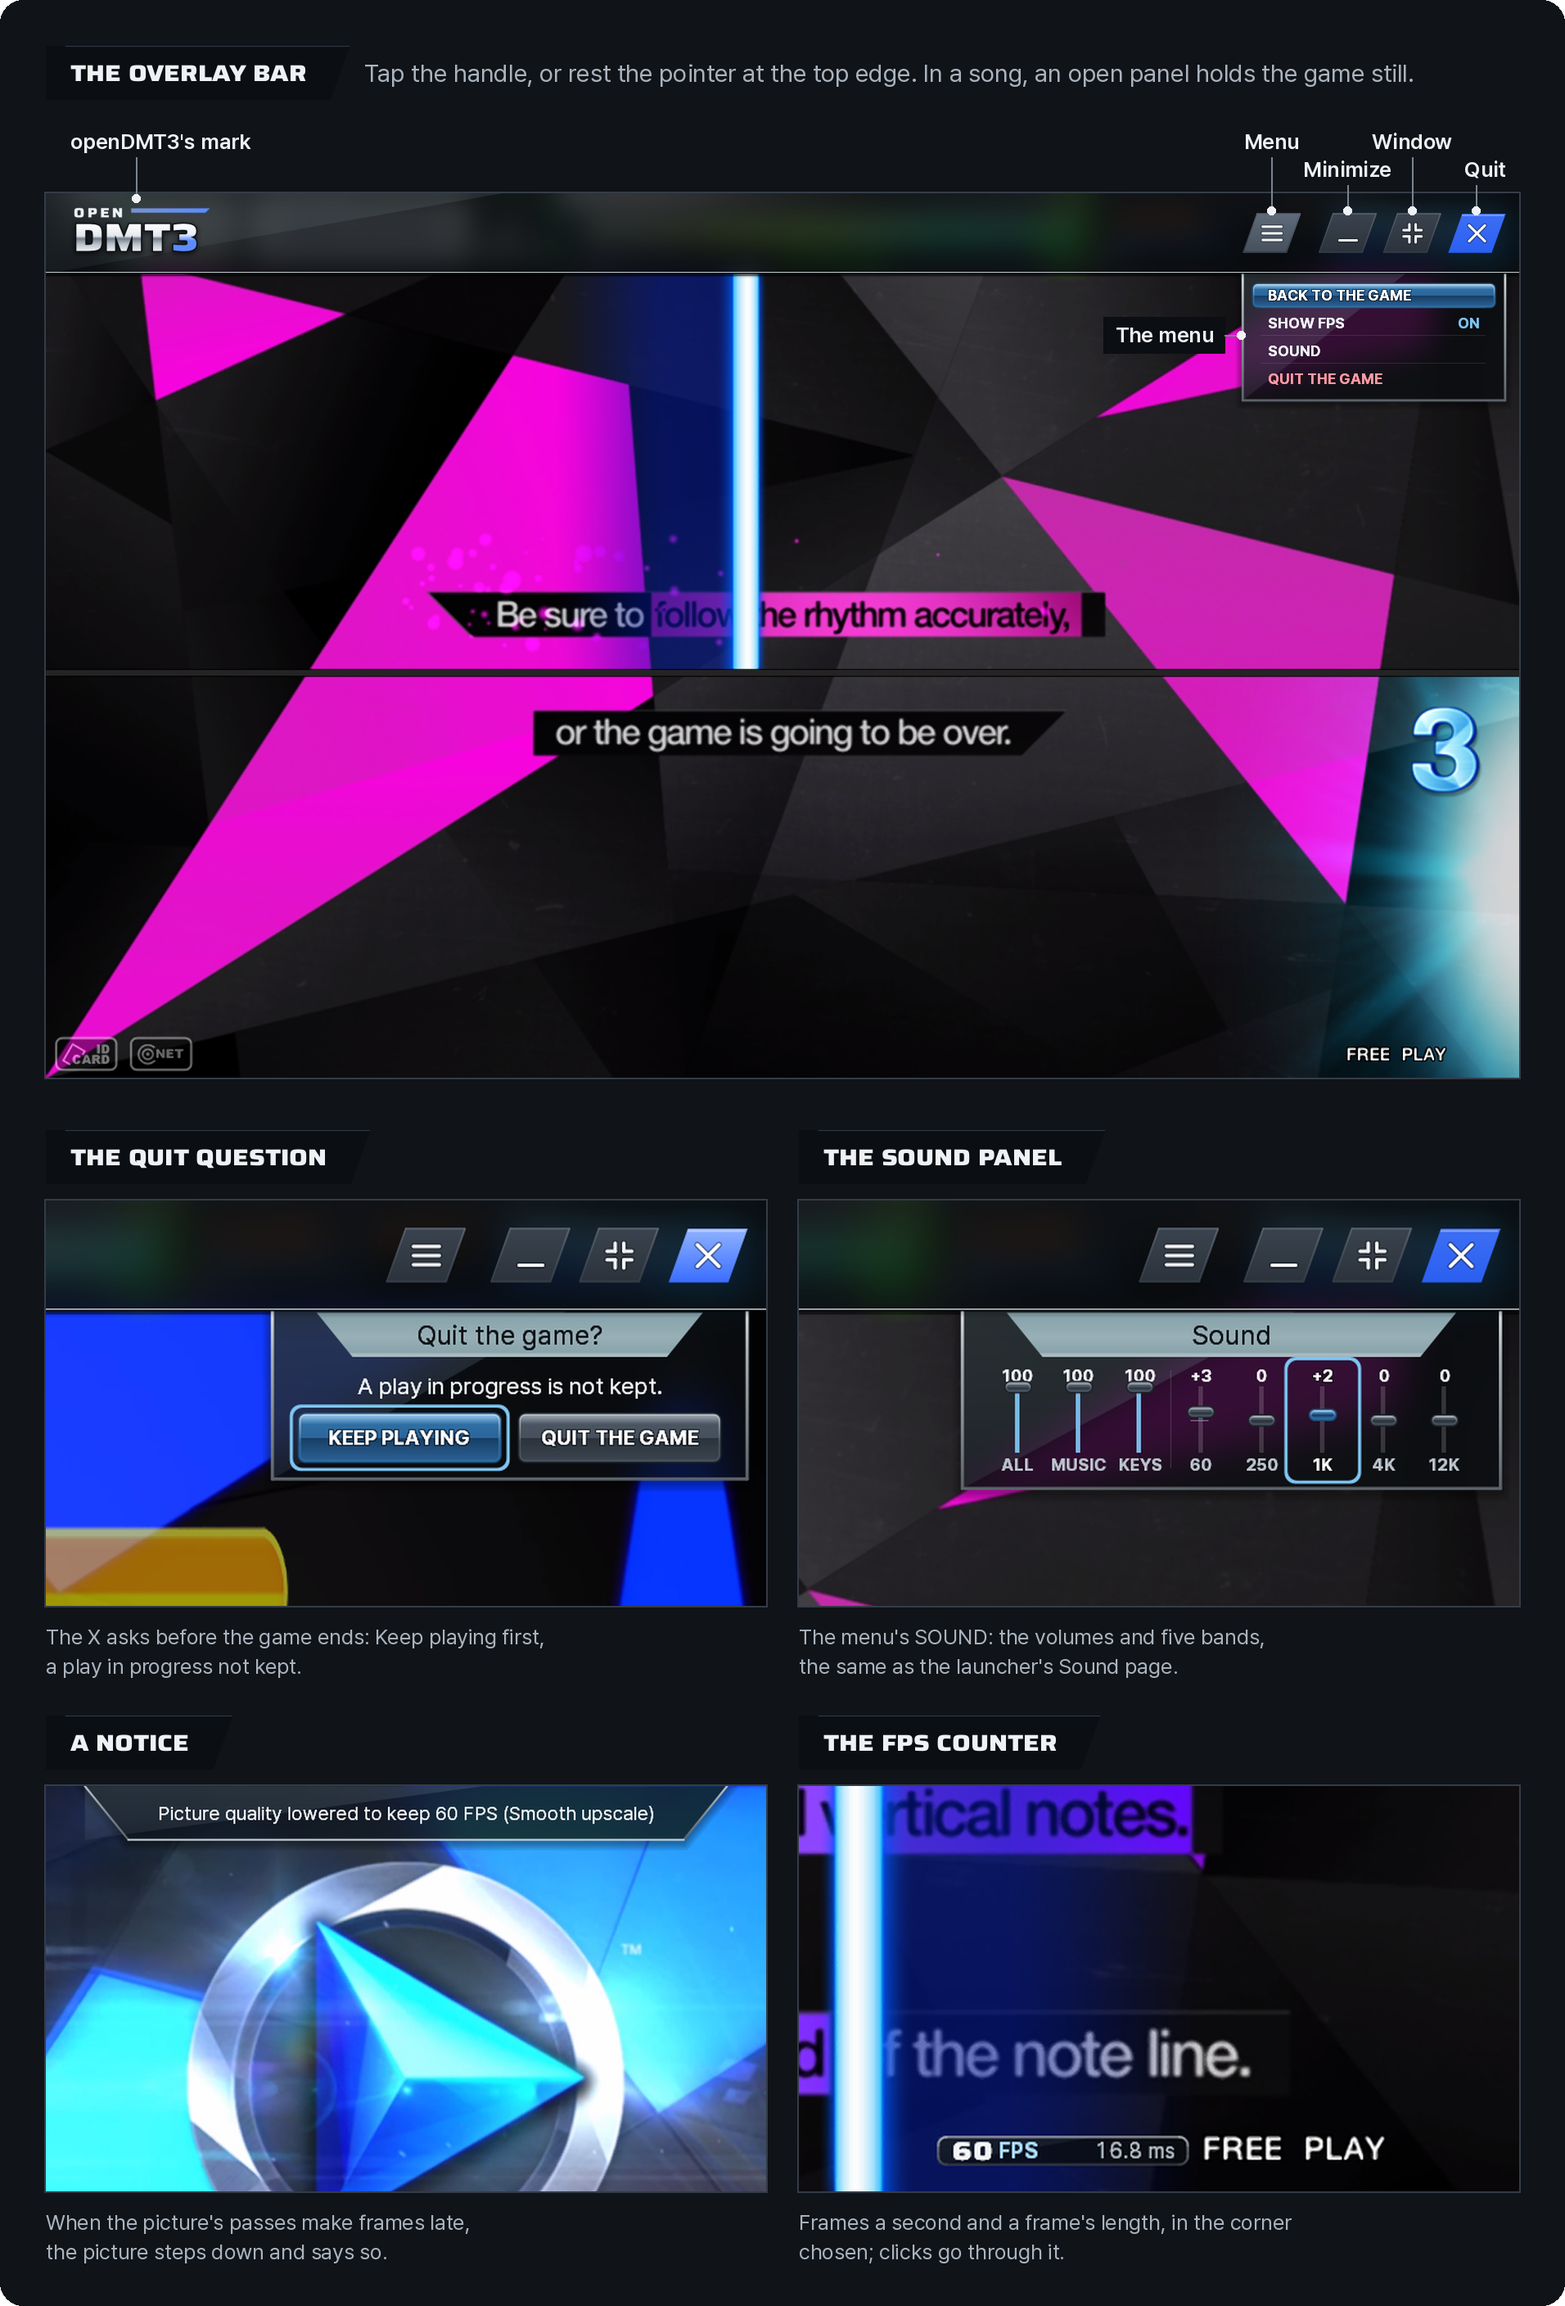
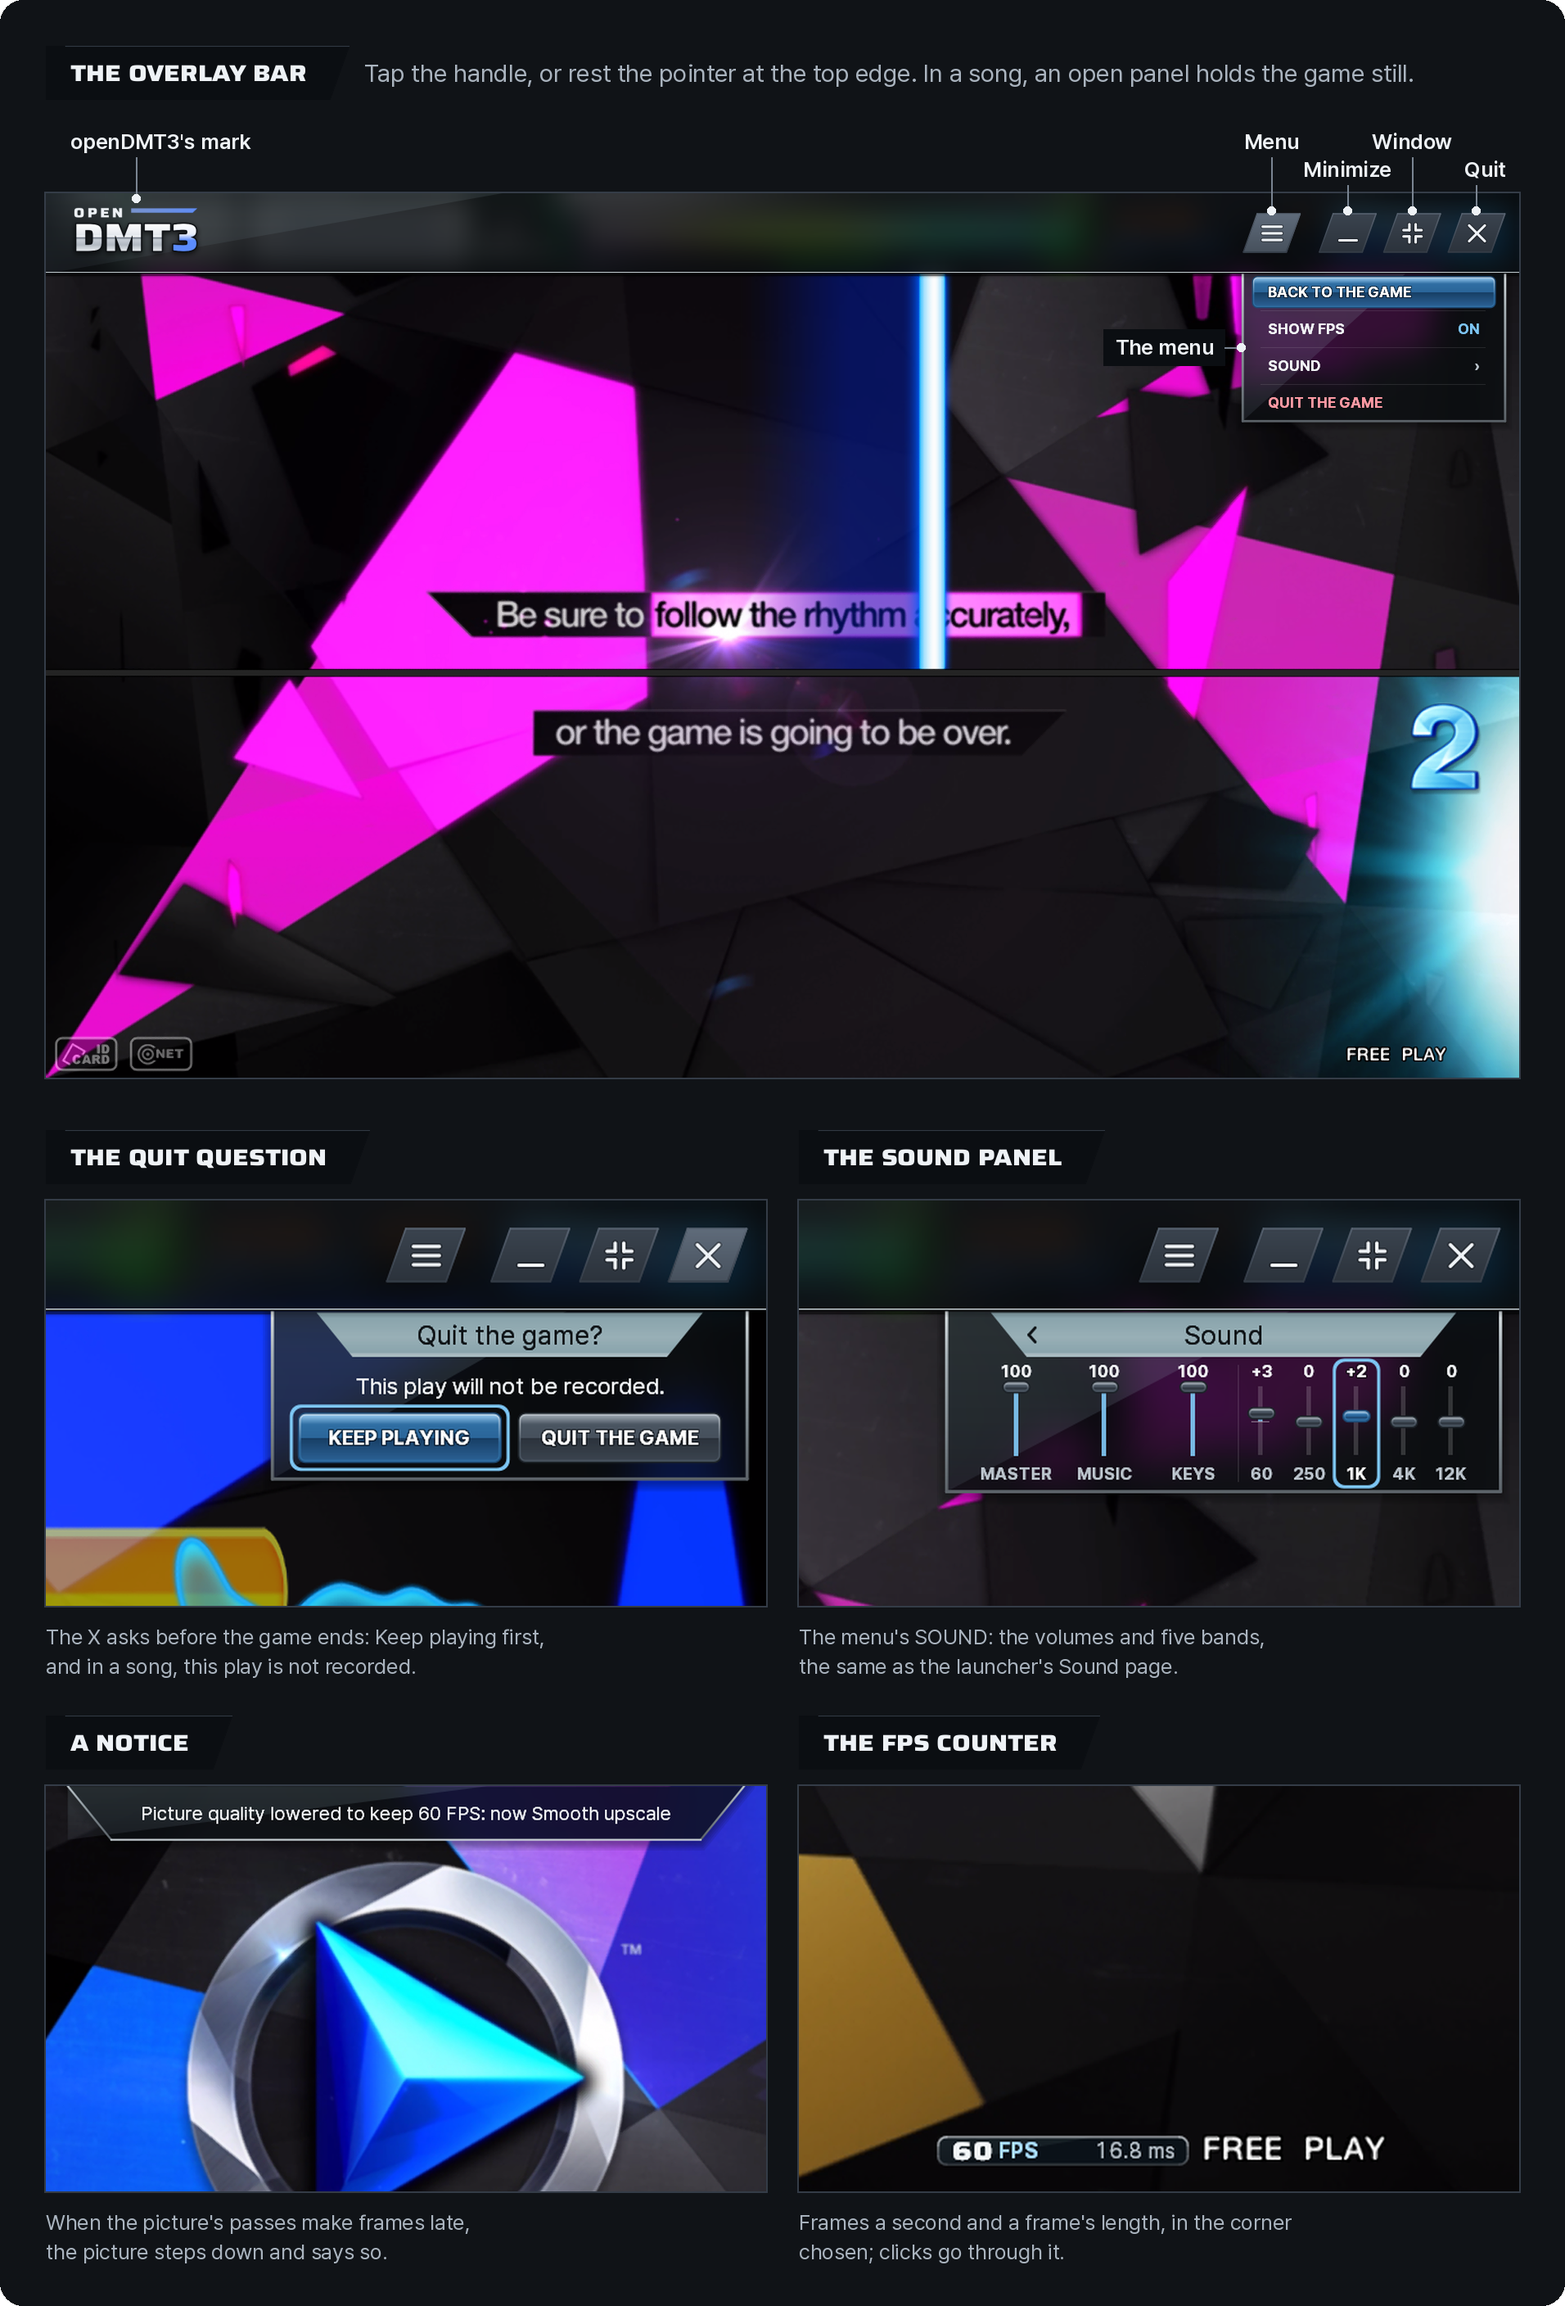
Docs: the overlay's picture and the first picture's game panel from 0.4.0's frames
Real frames of the tutorial on a GPU with 0.4.0's layer: the menu's SOUND row with its arrow, the question's
This play will not be recorded., the sound panel's MASTER, MUSIC and KEYS with its way back to the menu, the
notice's own words, and the X as the other chips. The alt texts say what the pictures now show.

diff --git a/README.md b/README.md
@@ -27,7 +27,7 @@
 </p>
 
 <p align="center">
-  <img src="docs/images/showcase.webp" alt="openDMT3 in four screens, with made-up players, songs and folders: the launcher's PLAY page with who plays, the ready check and the last game; the players' site's rankings, each mode's DJs by total score with the first three on their plates; the game's own tutorial with openDMT3's overlay bar and its FPS counter at 60 FPS, 16.8 ms; and the admin site's Players page, under its rail of the server's state" width="100%">
+  <img src="docs/images/showcase.webp" alt="openDMT3 in four screens, with made-up players, songs and folders: the launcher's PLAY page with who plays, the ready check and the last game; the players' site's rankings, each mode's DJs by total score with the first three on their plates; the game's own tutorial with openDMT3's overlay bar and its FPS counter at 60 FPS, 16.6 ms; and the admin site's Players page, under its rail of the server's state" width="100%">
 </p>
 
 **DJMAX TECHNIKA 3** is a touch-screen arcade rhythm game of 2011. openDMT3 plays your own copy of it on a Windows
@@ -94,7 +94,7 @@ The overlay bar comes down from the game's top edge or a tap on its handle: the 
 equalizer), minimise, window and an X that asks first. During a song an open panel holds the game still.
 
 <p align="center">
-  <img src="docs/images/ingame.png" alt="openDMT3's overlay over TECHNIKA 3's tutorial and title screen, in real frames. The overlay bar across the top: openDMT3's mark at its left, and at its right the menu, minimize, back to a window, and quit. The menu hangs from the bar under its button: BACK TO THE GAME, SHOW FPS ON, SOUND, QUIT THE GAME in red. Under it, four pieces of other frames, two by two: the quit question hanging from the bar under the X, Quit the game?, with A play in progress is not kept., KEEP PLAYING and QUIT THE GAME; the sound panel hanging from the bar under the X, Sound, with eight columns: ALL, MUSIC and KEYS at 100, then the bands 60 at +3, 250 at 0, 1K at +2, 4K and 12K at 0; a notice hanging from the top edge of the title screen, Picture quality lowered to keep 60 FPS (Smooth upscale); and the FPS counter at the bottom right beside the game's FREE PLAY, 60 FPS and 16.8 ms on one line" width="100%">
+  <img src="docs/images/ingame.png" alt="openDMT3's overlay over TECHNIKA 3's tutorial and title screen, in real frames. The overlay bar across the top: openDMT3's mark at its left, and at its right the menu, minimize, back to a window, and quit. The menu hangs from the bar under its button: BACK TO THE GAME, SHOW FPS ON, SOUND with an arrow to its panel, QUIT THE GAME in red. Under it, four pieces of other frames, two by two: the quit question hanging from the bar under the X, Quit the game?, with This play will not be recorded., KEEP PLAYING and QUIT THE GAME; the sound panel hanging from the bar under the X, Sound with a way back to the menu, and eight columns: MASTER, MUSIC and KEYS at 100, then the bands 60 at +3, 250 at 0, 1K at +2, 4K and 12K at 0; a notice hanging from the top edge of the title screen, Picture quality lowered to keep 60 FPS: now Smooth upscale; and the FPS counter at the bottom right beside the game's FREE PLAY, 60 FPS and 16.8 ms on one line" width="100%">
 </p>
 
 ### Frames on time, and on the music

diff --git a/docs/install.md b/docs/install.md
@@ -115,7 +115,7 @@ tab, metal frame and glossy buttons), in the launcher's language. Nothing of it 
 the notes come, and no key of the keyboard brings it:
 
 <p align="center">
-  <img src="images/ingame.png" alt="openDMT3's overlay over TECHNIKA 3's tutorial and title screen, in real frames. The overlay bar across the top: openDMT3's mark at its left, and at its right the menu, minimize, back to a window, and quit. The menu hangs from the bar under its button: BACK TO THE GAME, SHOW FPS ON, SOUND, QUIT THE GAME in red. Under it, four pieces of other frames, two by two: the quit question hanging from the bar under the X, Quit the game?, with A play in progress is not kept., KEEP PLAYING and QUIT THE GAME; the sound panel hanging from the bar under the X, Sound, with eight columns: ALL, MUSIC and KEYS at 100, then the bands 60 at +3, 250 at 0, 1K at +2, 4K and 12K at 0; a notice hanging from the top edge of the title screen, Picture quality lowered to keep 60 FPS (Smooth upscale); and the FPS counter at the bottom right beside the game's FREE PLAY, 60 FPS and 16.8 ms on one line" width="100%">
+  <img src="images/ingame.png" alt="openDMT3's overlay over TECHNIKA 3's tutorial and title screen, in real frames. The overlay bar across the top: openDMT3's mark at its left, and at its right the menu, minimize, back to a window, and quit. The menu hangs from the bar under its button: BACK TO THE GAME, SHOW FPS ON, SOUND with an arrow to its panel, QUIT THE GAME in red. Under it, four pieces of other frames, two by two: the quit question hanging from the bar under the X, Quit the game?, with This play will not be recorded., KEEP PLAYING and QUIT THE GAME; the sound panel hanging from the bar under the X, Sound with a way back to the menu, and eight columns: MASTER, MUSIC and KEYS at 100, then the bands 60 at +3, 250 at 0, 1K at +2, 4K and 12K at 0; a notice hanging from the top edge of the title screen, Picture quality lowered to keep 60 FPS: now Smooth upscale; and the FPS counter at the bottom right beside the game's FREE PLAY, 60 FPS and 16.8 ms on one line" width="100%">
 </p>
 
 - **The overlay bar.** Tap the handle at the game's top center (a short line along the edge with a small tab and an

diff --git a/docs/architecture.md b/docs/architecture.md
@@ -312,7 +312,7 @@ first points) into the log, read from its memory in the PC build.
 ### The layer's parts and their input
 
 <p align="center">
-  <img src="images/ingame.png" alt="openDMT3's overlay over TECHNIKA 3's tutorial and title screen, in real frames. The overlay bar across the top: openDMT3's mark at its left, and at its right the menu, minimize, back to a window, and quit. The menu hangs from the bar under its button: BACK TO THE GAME, SHOW FPS ON, SOUND, QUIT THE GAME in red. Under it, four pieces of other frames, two by two: the quit question hanging from the bar under the X, Quit the game?, with A play in progress is not kept., KEEP PLAYING and QUIT THE GAME; the sound panel hanging from the bar under the X, Sound, with eight columns: ALL, MUSIC and KEYS at 100, then the bands 60 at +3, 250 at 0, 1K at +2, 4K and 12K at 0; a notice hanging from the top edge of the title screen, Picture quality lowered to keep 60 FPS (Smooth upscale); and the FPS counter at the bottom right beside the game's FREE PLAY, 60 FPS and 16.8 ms on one line" width="100%">
+  <img src="images/ingame.png" alt="openDMT3's overlay over TECHNIKA 3's tutorial and title screen, in real frames. The overlay bar across the top: openDMT3's mark at its left, and at its right the menu, minimize, back to a window, and quit. The menu hangs from the bar under its button: BACK TO THE GAME, SHOW FPS ON, SOUND with an arrow to its panel, QUIT THE GAME in red. Under it, four pieces of other frames, two by two: the quit question hanging from the bar under the X, Quit the game?, with This play will not be recorded., KEEP PLAYING and QUIT THE GAME; the sound panel hanging from the bar under the X, Sound with a way back to the menu, and eight columns: MASTER, MUSIC and KEYS at 100, then the bands 60 at +3, 250 at 0, 1K at +2, 4K and 12K at 0; a notice hanging from the top edge of the title screen, Picture quality lowered to keep 60 FPS: now Smooth upscale; and the FPS counter at the bottom right beside the game's FREE PLAY, 60 FPS and 16.8 ms on one line" width="100%">
 </p>
 
 - **The bar** comes when the pointer, moved to the game's very top edge or onto the mark at its top centre (the player's
